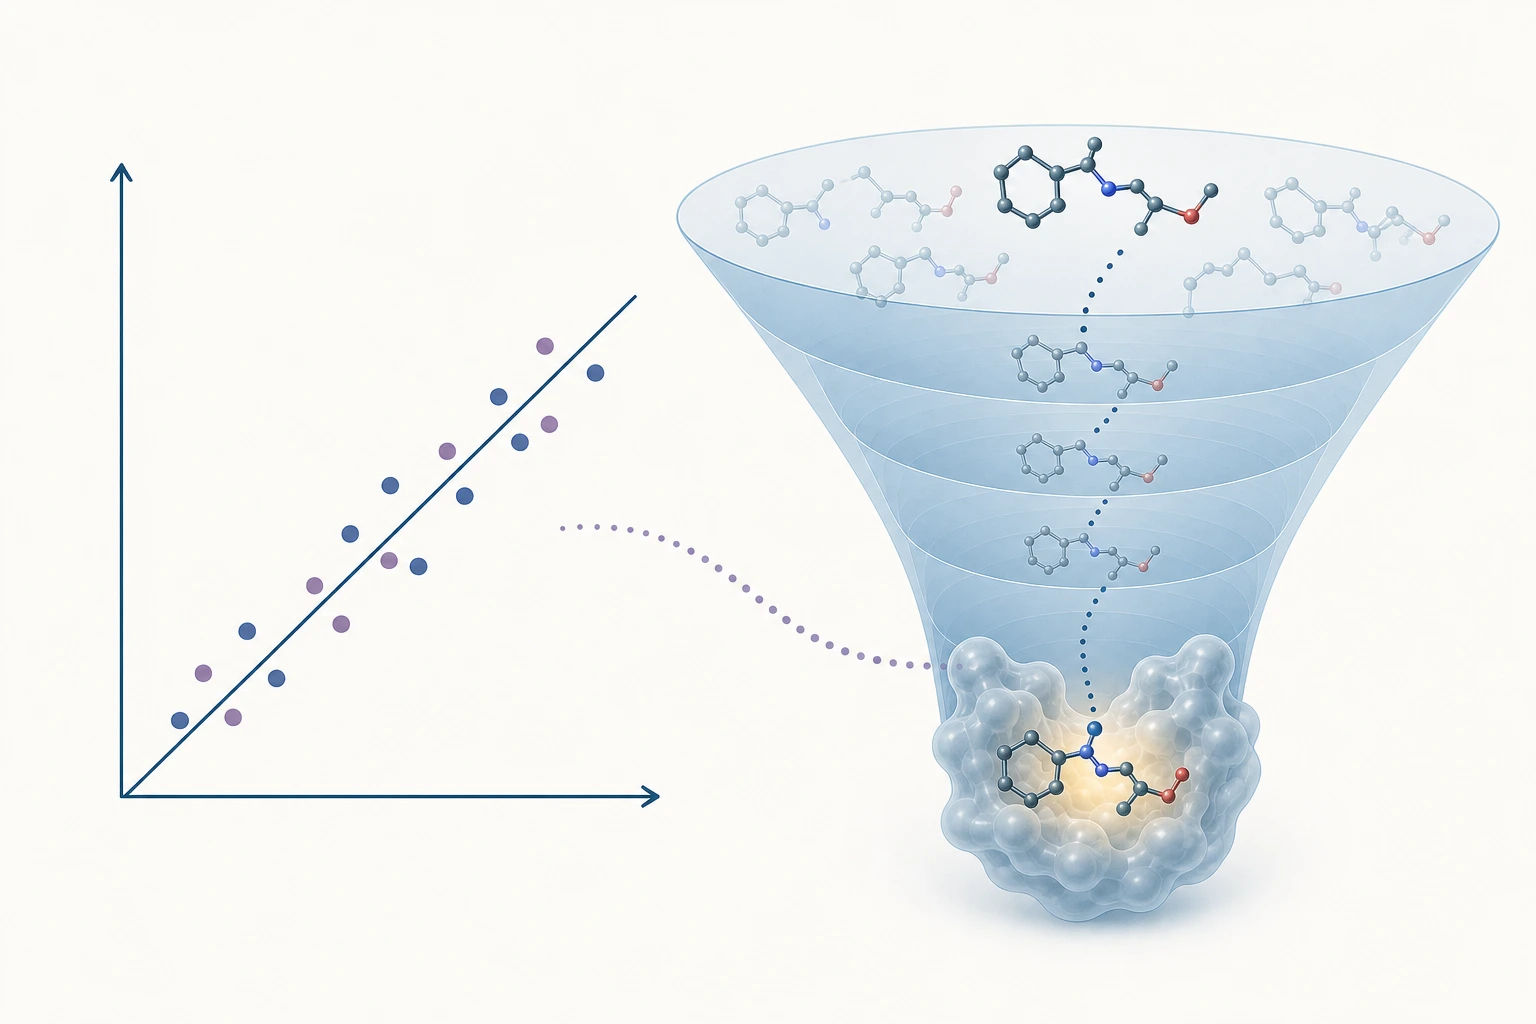
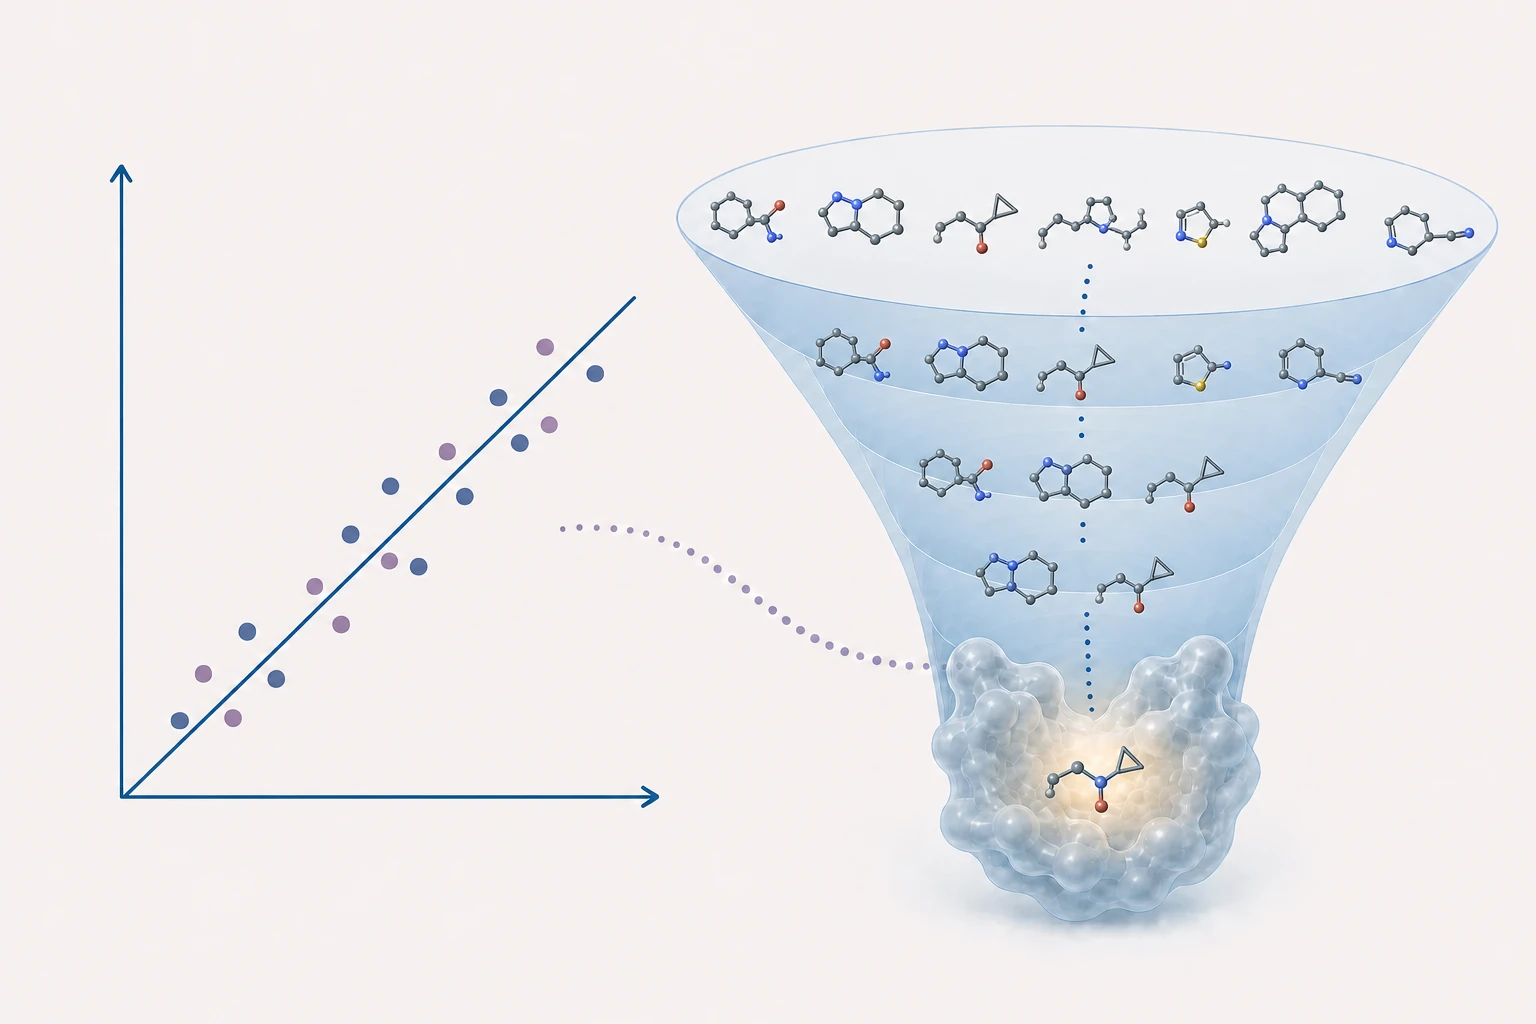
Finalize lab website content and layout
Update recruitment, member profile links, research content and figures, teaching text, publication typography, and the outreach workshop photograph.

diff --git a/styles.css b/styles.css
@@ -446,6 +446,13 @@ button { font: inherit; }
 .copyright { grid-column: 1 / -1; margin: 35px 0 0; padding-top: 25px; border-top: 1px solid rgba(255,255,255,.15); color: rgba(255,255,255,.45); font-size: .68rem; letter-spacing: .12em; text-transform: uppercase; }
 
 .placeholder-page .site-header { color: var(--ink); }
+.join-page {
+  display: flex;
+  min-height: 100svh;
+  flex-direction: column;
+}
+.join-page main { display: flex; flex: 1; }
+.join-page .site-footer { margin-top: auto; }
 .placeholder-hero {
   min-height: calc(100svh - 140px);
   padding: 205px 0 120px;
@@ -505,7 +512,7 @@ button { font: inherit; }
   align-items: start;
 }
 .publication-year + .publication-year { margin-top: 58px; }
-.publication-year > h2 { margin: -7px 0 0; font-family: var(--display); font-size: clamp(2.25rem, 3.7vw, 3.5rem); font-weight: 400; line-height: 1; letter-spacing: -.04em; }
+.publication-year > h2 { margin: -7px 0 0; font-family: var(--display); font-size: clamp(2rem, 3.2vw, 3rem); font-weight: 400; line-height: 1; letter-spacing: -.04em; }
 .publication-list { margin: 0; padding: 0; list-style: none; border-top: 1px solid var(--ink); }
 .publication-list > li { border-bottom: 1px solid var(--line); }
 .publication-item {
@@ -605,13 +612,17 @@ button { font: inherit; }
   max-width: 850px;
   margin: 0;
   font-family: var(--display);
-  font-size: clamp(2rem, 3.5vw, 3.2rem);
+  font-size: clamp(1.7rem, 2.35vw, 2.4rem);
   font-weight: 400;
-  line-height: 1.02;
+  line-height: 1.06;
   letter-spacing: -.035em;
+  white-space: nowrap;
 }
 .outreach-copy > p:last-child { max-width: 830px; margin: 22px 0 0; color: var(--muted); font-size: 1rem; line-height: 1.7; }
-.outreach-photo { margin: 34px 0 0; }
+.outreach-photo {
+  width: min(100%, 980px);
+  margin: 34px auto 0;
+}
 .outreach-photo img {
   width: 100%;
   height: auto;
@@ -627,34 +638,53 @@ button { font: inherit; }
 }
 
 .join-hero {
-  min-height: calc(100svh - 120px);
-  padding: 132px 0 82px;
+  width: 100%;
+  min-height: auto;
+  padding: 112px 0 40px;
   background: var(--paper);
 }
-.join-layout { display: grid; gap: 34px; }
+.join-layout { display: grid; gap: 24px; }
 .join-intro {
   display: grid;
   grid-template-columns: .65fr 1.35fr;
-  gap: 70px;
+  gap: 52px;
   align-items: start;
 }
 .join-intro .placeholder-label { padding-top: 5px; }
-.opportunity-list { border-top: 1px solid var(--ink); }
-.opportunity-card {
+.opportunity-list {
   display: grid;
-  grid-template-columns: .65fr 1.35fr;
+  grid-template-columns: 1fr;
+  gap: 0;
+  padding-top: 22px;
+  border-top: 1px solid var(--ink);
+}
+.opportunity-card {
+  min-width: 0;
+  padding: 24px 0;
   border-bottom: 1px solid var(--line);
-  background: var(--white);
 }
-.opportunity-meta {
+.opportunity-card:first-child { padding-top: 0; }
+.opportunity-card:last-child { padding-bottom: 8px; border-bottom: 0; }
+.opportunity-kicker {
   display: flex;
-  justify-content: space-between;
-  gap: 30px;
-  padding: 32px 40px 32px 0;
-  border-right: 1px solid var(--line);
+  align-items: center;
+  gap: 14px;
+  margin-top: 10px;
 }
-.opportunity-meta span { color: var(--muted); font-size: .7rem; font-weight: 650; letter-spacing: .08em; }
-.opportunity-meta p,
+.opportunity-number {
+  color: var(--muted);
+  font-size: .7rem;
+  font-weight: 650;
+  letter-spacing: .08em;
+}
+.opportunity-number::after {
+  display: inline-block;
+  width: 32px;
+  height: 1px;
+  margin: 0 0 3px 14px;
+  background: var(--line);
+  content: "";
+}
 .opportunity-type {
   margin: 0;
   color: var(--forest);
@@ -663,16 +693,34 @@ button { font: inherit; }
   letter-spacing: .12em;
   text-transform: uppercase;
 }
-.opportunity-copy { padding: 32px 0 38px 42px; }
+.opportunity-copy { padding: 0 0 8px; }
 .opportunity-copy h2 {
-  margin: 12px 0 0;
+  margin: 0;
   font-family: var(--display);
-  font-size: clamp(2rem, 3.5vw, 3rem);
+  font-size: clamp(1.65rem, 2.7vw, 2.3rem);
   font-weight: 400;
-  line-height: 1;
+  line-height: 1.05;
   letter-spacing: -.035em;
 }
-.opportunity-copy > p:last-child { max-width: 800px; margin: 20px 0 0; color: var(--muted); font-size: 1rem; line-height: 1.68; }
+.opportunity-copy > p:last-child {
+  max-width: 980px;
+  margin: 12px 0 0;
+  color: var(--muted);
+  font-size: 1rem;
+  line-height: 1.6;
+  text-align: justify;
+  text-justify: inter-word;
+}
+
+.contact-link {
+  color: var(--forest);
+  font-weight: 650;
+  text-decoration-thickness: 1px;
+  text-underline-offset: 3px;
+}
+
+.contact-link:hover,
+.contact-link:focus-visible { color: var(--forest-deep); }
 
 .members-hero {
   min-height: calc(100svh - 120px);
@@ -694,8 +742,9 @@ button { font: inherit; }
   padding-top: 34px;
   border-top: 1px solid var(--ink);
 }
+.member-media { width: min(100%, 310px); }
 .member-photo {
-  width: min(100%, 310px);
+  width: 100%;
   aspect-ratio: 1;
   overflow: hidden;
   border: 8px solid var(--white);
@@ -703,11 +752,35 @@ button { font: inherit; }
   box-shadow: 0 18px 50px rgba(23, 48, 52, .12);
 }
 .member-photo img { width: 100%; height: 100%; object-fit: cover; object-position: 50% 52%; }
+.member-links {
+  display: grid;
+  grid-template-columns: repeat(2, minmax(0, 1fr));
+  gap: 0 16px;
+  margin-top: 18px;
+  border-top: 1px solid var(--ink);
+}
+.member-links a {
+  display: flex;
+  align-items: center;
+  justify-content: space-between;
+  gap: 8px;
+  padding: 10px 0;
+  border-bottom: 1px solid var(--line);
+  color: var(--forest);
+  font-size: .68rem;
+  font-weight: 700;
+  letter-spacing: .08em;
+  text-decoration: none;
+  text-transform: uppercase;
+}
+.member-links a::after { content: "↗"; font-size: .8rem; font-weight: 400; }
+.member-links a:hover,
+.member-links a:focus-visible { color: var(--ink); }
 .member-copy { max-width: 760px; }
 .member-role,
 .member-position { color: var(--forest); font-size: .74rem; font-weight: 750; letter-spacing: .12em; line-height: 1.55; text-transform: uppercase; }
 .member-role { margin: 0 0 14px; }
-.member-copy h2 { margin: 0; font-family: var(--display); font-size: clamp(2.5rem, 4.8vw, 4.4rem); font-weight: 400; line-height: .98; letter-spacing: -.045em; }
+.member-copy h2 { margin: 0; font-family: var(--display); font-size: clamp(2.2rem, 4vw, 3.6rem); font-weight: 400; line-height: .98; letter-spacing: -.04em; }
 .member-position { margin: 18px 0 0; }
 .member-bio { margin-top: 30px; padding-top: 25px; border-top: 1px solid var(--line); }
 .member-bio p { margin: 0; color: var(--muted); font-size: 1rem; line-height: 1.72; }
@@ -857,10 +930,12 @@ button { font: inherit; }
   .outreach-feature-heading { grid-template-columns: 1fr; }
   .outreach-meta { padding: 24px 0; border-right: 0; border-bottom: 1px solid var(--line); }
   .outreach-copy { padding: 28px 0 34px; }
+  .outreach-copy h2 { white-space: normal; }
   .join-intro { grid-template-columns: 1fr; gap: 10px; }
-  .opportunity-card { grid-template-columns: 1fr; }
-  .opportunity-meta { padding: 24px 0; border-right: 0; border-bottom: 1px solid var(--line); }
-  .opportunity-copy { padding: 28px 0 34px; }
+  .opportunity-list { grid-template-columns: 1fr; gap: 0; }
+  .opportunity-card { padding: 22px 0; border-bottom: 1px solid var(--line); }
+  .opportunity-card:first-child { padding-top: 0; }
+  .opportunity-copy { padding: 0; }
   .members-intro { grid-template-columns: 1fr; gap: 10px; }
   .member-profile { grid-template-columns: 240px 1fr; gap: 45px; }
   .research-intro { grid-template-columns: 1fr; gap: 10px; }
@@ -922,7 +997,7 @@ button { font: inherit; }
   .publication-section { padding: 48px 0 70px; }
   .publication-year { grid-template-columns: 1fr; gap: 16px; }
   .publication-year + .publication-year { margin-top: 46px; }
-  .publication-year > h2 { margin: 0; font-size: 2.4rem; }
+  .publication-year > h2 { margin: 0; font-size: 2.15rem; }
   .publication-item { grid-template-columns: 30px minmax(0, 1fr); gap: 14px; padding: 24px 0; }
   .publication-item h3 { font-size: 1.28rem; }
   .teaching-hero { padding: 112px 0 60px; }
@@ -931,13 +1006,12 @@ button { font: inherit; }
   .outreach-hero { padding: 112px 0 62px; }
   .outreach-layout { gap: 28px; }
   .outreach-photo { margin-top: 24px; }
-  .join-hero { padding: 112px 0 62px; }
-  .join-layout { gap: 28px; }
-  .opportunity-meta { gap: 18px; }
+  .join-hero { padding: 100px 0 32px; }
+  .join-layout { gap: 22px; }
   .members-hero { padding: 112px 0 60px; }
   .members-layout { gap: 28px; }
   .member-profile { grid-template-columns: 1fr; gap: 34px; padding-top: 32px; }
-  .member-photo { width: min(74vw, 270px); }
+  .member-media { width: min(74vw, 270px); }
   .research-hero { padding: 112px 0 60px; }
   .research-layout { gap: 28px; }
   .research-area-copy { padding: 28px 24px 34px; }

diff --git a/join-us.html b/join-us.html
@@ -9,7 +9,7 @@
     <link rel="stylesheet" href="styles.css">
     <script src="main.js" defer></script>
   </head>
-  <body class="placeholder-page">
+  <body class="placeholder-page join-page">
     <a class="skip-link" href="#main-content">Skip to content</a>
     <header class="site-header solid" data-header>
       <div class="nav-shell">
@@ -24,31 +24,29 @@
         <div class="page-shell join-layout">
           <header class="join-intro">
             <h1 class="placeholder-label">MCD Lab · Opportunities</h1>
-            <p class="page-intro-note">We welcome motivated students who are curious about molecular computation, simulation, and data-driven molecular design.</p>
+            <p class="page-intro-note">We welcome students from diverse backgrounds interested in molecular simulation, artificial intelligence, and predictive materials design.</p>
           </header>
 
           <div class="opportunity-list" aria-label="Current opportunities">
             <article class="opportunity-card">
-              <div class="opportunity-meta">
-                <span>01</span>
-                <p>Spring semester</p>
-              </div>
               <div class="opportunity-copy">
-                <p class="opportunity-type">Graduate opportunities</p>
                 <h2>PhD and M.Tech. students</h2>
-                <p>We are currently seeking PhD and M.Tech. students to join the lab during the Spring semester. Interested candidates are encouraged to contact us to discuss available research opportunities.</p>
+                <div class="opportunity-kicker">
+                  <span class="opportunity-number">01</span>
+                  <p class="opportunity-type">Graduate opportunities</p>
+                </div>
+                <p>We are currently seeking PhD and M.Tech. students to join the lab during the Spring semester. Interested candidates are encouraged to contact us at <a class="contact-link" href="mailto:soumajit.dutta@iitgn.ac.in">soumajit.dutta@iitgn.ac.in</a> to discuss available research opportunities.</p>
               </div>
             </article>
 
             <article class="opportunity-card">
-              <div class="opportunity-meta">
-                <span>02</span>
-                <p>Spring semester</p>
-              </div>
               <div class="opportunity-copy">
-                <p class="opportunity-type">Undergraduate opportunities</p>
                 <h2>IIT Gandhinagar students</h2>
-                <p>We welcome undergraduate students from IIT Gandhinagar who are interested in gaining research experience during the Spring semester. Please contact us to learn more about available projects.</p>
+                <div class="opportunity-kicker">
+                  <span class="opportunity-number">02</span>
+                  <p class="opportunity-type">Undergraduate opportunities</p>
+                </div>
+                <p>We welcome undergraduate students from IIT Gandhinagar who are interested in gaining research experience during the Spring semester. Please contact us at <a class="contact-link" href="mailto:soumajit.dutta@iitgn.ac.in">soumajit.dutta@iitgn.ac.in</a> to learn more about available projects.</p>
               </div>
             </article>
           </div>

diff --git a/research.html b/research.html
@@ -40,14 +40,14 @@
                 <figcaption><span>Ionic conductivity ↑</span><span>Cation transference number →</span></figcaption>
               </figure>
               <div class="research-area-copy">
-                <h2>Energy Materials by Design</h2>
-                <p>Reliable and efficient energy storage is essential for broader adoption of renewable energy. We combine <strong>data-driven methods, molecular simulation, and quantum calculations</strong> to understand transport, structure, and stability in energy-storage materials. Our goal is to design new materials for <strong>electrical and thermal energy storage</strong> with targeted properties.</p>
+                <h2>Materials Design for Energy Storage</h2>
+                <p>Reliable and efficient energy storage is essential for broader adoption of renewable energy. We combine <strong>data-driven methods, molecular simulation, and quantum calculations</strong> to understand structure, stability, and atomistic dynamics of energy-storage materials. Our goal is to design new materials for <strong>electrical and thermal energy storage</strong> with targeted properties.</p>
               </div>
             </article>
 
             <article class="research-area research-drug">
               <figure class="research-figure">
-                <img src="research-drug.webp" alt="Model-validation plot connected to a molecular docking funnel in which candidate ligand poses converge on a protein binding pocket" width="1536" height="1024" loading="lazy">
+                <img src="research-drug.webp" alt="Model-validation plot connected to a docking funnel in which seven structurally diverse molecules are progressively filtered to five, three, two, and one protein-bound candidate" width="1536" height="1024" loading="lazy">
                 <figcaption><span>Predicted ↔ experimental</span><span>Molecular docking funnel</span></figcaption>
               </figure>
               <div class="research-area-copy">

diff --git a/members.html b/members.html
@@ -23,8 +23,16 @@
           </header>
 
           <article class="member-profile">
-            <div class="member-photo">
-              <img src="soumajit-dutta.jpg" alt="Soumajit Dutta">
+            <div class="member-media">
+              <div class="member-photo">
+                <img src="soumajit-dutta.jpg" alt="Soumajit Dutta" width="2099" height="1827">
+              </div>
+              <nav class="member-links" aria-label="Soumajit Dutta professional profiles">
+                <a href="https://www.linkedin.com/in/soumajit-dutta-286032a2/" target="_blank" rel="noopener noreferrer">LinkedIn</a>
+                <a href="https://scholar.google.com/citations?user=u-LE1hwAAAAJ&amp;hl=en" target="_blank" rel="noopener noreferrer">Google Scholar</a>
+                <a href="https://orcid.org/0000-0003-3951-8088" target="_blank" rel="noopener noreferrer">ORCID</a>
+                <a href="https://github.com/soumajit2706" target="_blank" rel="noopener noreferrer">GitHub</a>
+              </nav>
             </div>
             <div class="member-copy">
               <p class="member-role">Principal Investigator</p>

diff --git a/outreach.html b/outreach.html
@@ -36,7 +36,7 @@
             </div>
 
             <figure class="outreach-photo">
-              <img src="molecular-simulation-workshop-2026.jpeg" alt="Participants of the Introduction to Molecular Simulation Workshop 2026 at IIT Gandhinagar" width="2048" height="1362">
+              <img src="molecular-simulation-workshop-2026.png" alt="Participants of the Introduction to Molecular Simulation Workshop 2026 at IIT Gandhinagar" width="1994" height="908">
               <figcaption>Participants and organizers at IIT Gandhinagar · June 2026</figcaption>
             </figure>
           </article>

diff --git a/teaching.html b/teaching.html
@@ -19,7 +19,7 @@
         <div class="page-shell teaching-layout">
           <header class="teaching-intro">
             <h1 class="placeholder-label">MCD Lab · Teaching</h1>
-            <p class="page-intro-note">Courses grounded in thermodynamics, statistical mechanics, and molecular thinking.</p>
+            <p class="page-intro-note">Courses grounded in thermodynamics, and statistical mechanics.</p>
           </header>
 
           <article class="course-card">
